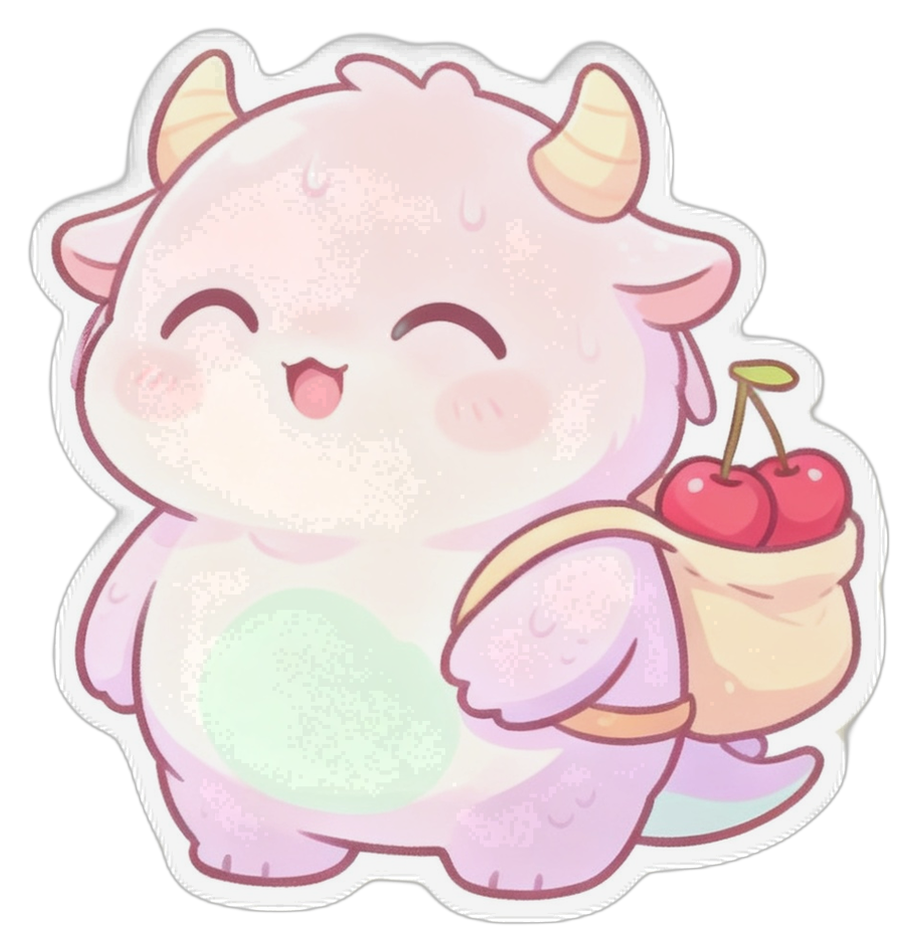
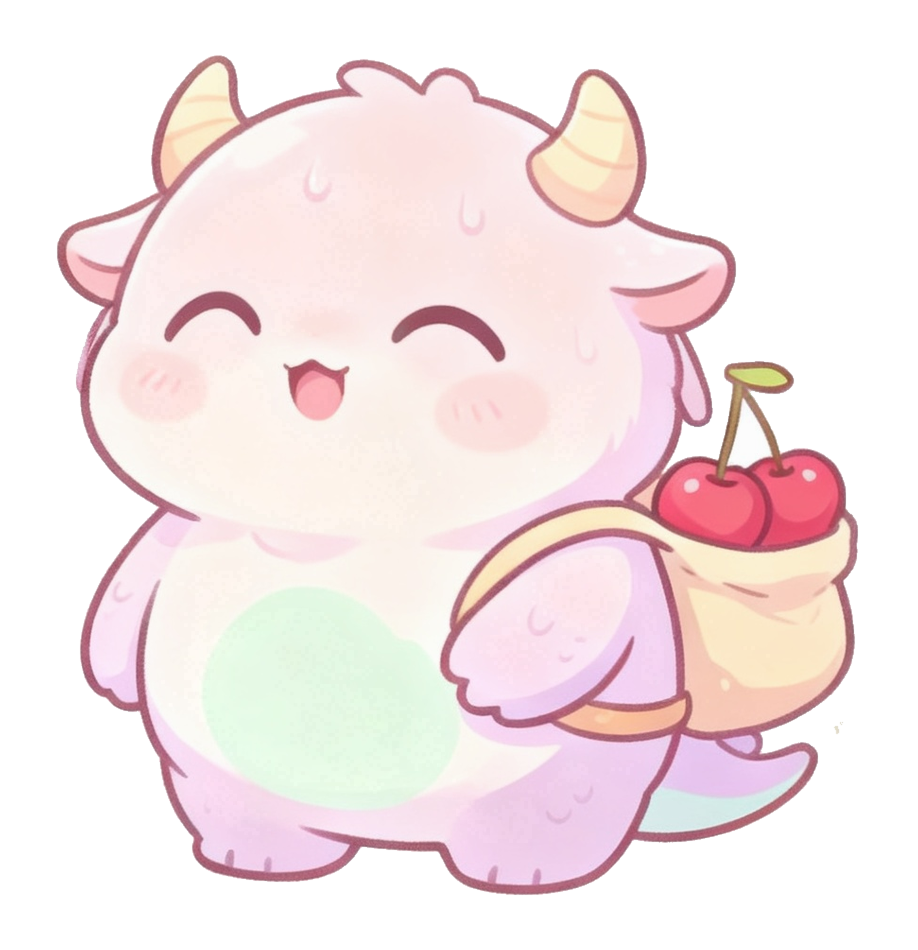
feat: update pet berry assets, sound session handling, and design previews

diff --git a/app/lib/util/study_audio_session_controller.dart b/app/lib/util/study_audio_session_controller.dart
@@ -8,6 +8,7 @@ import 'package:nnbdc/util/sound.dart';
 import 'package:nnbdc/util/asr.dart';
 import 'package:nnbdc/api/vo.dart';
 import 'package:nnbdc/util/app_clock.dart';
+import 'package:nnbdc/util/client_error_reporter.dart';
 import 'package:nnbdc/util/error_handler.dart';
 import 'package:nnbdc/util/platform_util.dart';
 import 'package:nnbdc/util/utils.dart';
@@ -655,84 +656,147 @@ class StudyAudioSessionController {
   // State Machine Transitions & Re-configuration
   // ============================================================
 
+  /// 状态机转换超过这个时长仍未完成，就认为它卡住了并上报现场。
+  ///
+  /// 取值依据：record 冷启动把每一层自己的超时全部踩满（清理 1.5s + 会话配置
+  /// 1s×(1+3 次 !pri 重试) + 激活 1s + 开麦 5s + 提示音 2s + 错峰 0.3s）约 13s，
+  /// 而正常路径在 1s 内完成。15s 之内不会误报，真卡住时用户也已经干等了十几秒。
+  static const Duration _stallReportAfterDefault = Duration(seconds: 15);
+
+  /// 测试专用：缩短"多久算卡住"，避免用例真的等 15 秒。
+  @visibleForTesting
+  static Duration? stallReportAfterOverride;
+
+  static Duration get _stallReportAfter =>
+      stallReportAfterOverride ?? _stallReportAfterDefault;
+
   /// 全局唯一的音频工作状态机转换网关（原子化、串行化、硬件防撞车）
   ///
   /// 返回本次转换是否成功。失败时这里已做物理熔断降级（回到 idle 并释放麦克风），
   /// 调用方必须据此决定要不要继续往下走 —— 典型就是开麦失败后不能再启动识别。
   Future<bool> transitTo(AudioMode targetMode) {
     return _stateTransitionLock.protect(() async {
-      // 建立新音频会话前，先等上一次登记的清理任务落地（见 _pendingCleanup）。
-      await _pendingCleanup;
+      final AudioMode fromMode = _activeMode;
       var finalTargetMode = targetMode;
       if (targetMode == AudioMode.record && !PlatformUtils.isAsrSupported()) {
         finalTargetMode = AudioMode.playback;
       }
- 
-      if (_activeMode == finalTargetMode) {
-        if (finalTargetMode == AudioMode.playback) {
-          final bool isCategoryChanged = _currentSessionCategory != 'playback';
-          if (isCategoryChanged) {
-            await _waitForAllPlayers();
-            await _usePlaybackCategory(force: true);
-            await Future.delayed(const Duration(milliseconds: 150));
-          }
-        }
-        return true;
-      }
- 
-      final sw = Stopwatch()..start();
-      debugPrint('🔊 [AudioEngine] 状态机开始转换: $_activeMode ➔ $finalTargetMode');
+
+      // 卡住看门狗：只观测、不中断、不改变任何行为。
+      //
+      // 为什么非要有它：这条路径上任何一个原生调用挂住（历史真凶是 AVAudioSession.setActive），
+      // 表现都是"这个 Future 永不返回"—— 不抛异常、catch 永远收不到、用户只能杀进程重进。
+      // 没有这个哨兵，这类故障在云端完全不可见。
+      var stage = '等待上一次清理任务落地';
+      final stallWatchdog = Timer(_stallReportAfter, () {
+        unawaited(reportClientFailure(
+          errorType: kClientAudioErrorType,
+          scene: '状态机转换卡住|$fromMode→$finalTargetMode',
+          details: '卡住超过 ${_stallReportAfter.inSeconds}s 仍未返回\n'
+              '当前阶段=$stage\n'
+              '会话Category=$_currentSessionCategory\n'
+              'ASR状态=${_asr.state}\n'
+              '监视中的播放器=${_watchedPlayers.length}',
+        ));
+      });
 
       try {
-        switch (finalTargetMode) {
-          case AudioMode.playback:
-            await _asr.stopMicrophone();
-            await _cleanupEarlyExitPlayers();
-            
+        // 建立新音频会话前，先等上一次登记的清理任务落地（见 _pendingCleanup）。
+        await _pendingCleanup;
+
+        if (fromMode == finalTargetMode) {
+          if (finalTargetMode == AudioMode.playback) {
             final bool isCategoryChanged = _currentSessionCategory != 'playback';
-            await _usePlaybackCategory(force: false);
-            final delayMs = isCategoryChanged ? 150 : 80;
-            await Future.delayed(Duration(milliseconds: delayMs));
-            break;
- 
-          case AudioMode.record:
-            await _cleanupEarlyExitPlayers();
-            
-            final bool isColdStart = _currentSessionCategory != 'playAndRecord';
-            await _usePlayAndRecordCategory();
-            await _asr.startMicrophone();
-            
-            final delayMs = isColdStart ? 180 : 60;
-            debugPrint('⏱ [AudioEngine] 麦克风物理通道已激活 (${isColdStart ? "冷启动" : "热复用"})，错峰延迟 ${delayMs}ms 稳定时钟...');
-            await Future.delayed(Duration(milliseconds: delayMs));
-            await _playAsrReadyHintSound();
-            // 提示音全长 100ms：让提示音播完再完成状态切换与开启 ASR 识别，
-            // 确保提示音与 ASR 识别在时间轴上完全错开，避免麦克风录入提示音造成回声感或误识别。
-            await Future.delayed(const Duration(milliseconds: 100));
-            break;
- 
-          case AudioMode.idle:
-            await _asr.stopMicrophone();
-            await _cleanupEarlyExitPlayers();
-            // 这里只关麦克风，不碰 AVAudioSession 的 Category（本控制器从不 setActive(false)），
-            // 所以 _currentSessionCategory 必须保留真实值：写成 'none' 会让下一次录放切换
-            // 无谓地重配一遍 Category（真机实测多耗 ~260ms 并制造一次路由抖动）。
-            break;
+            if (isCategoryChanged) {
+              stage = '重配播放会话(保温复用)';
+              await _waitForAllPlayers();
+              await _usePlaybackCategory(force: true);
+              await Future.delayed(const Duration(milliseconds: 150));
+            }
+          }
+          return true;
         }
-        
-        _activeMode = finalTargetMode;
-        debugPrint('🔊 [AudioEngine] 状态机转换成功: ➔ $_activeMode，总耗时: ${sw.elapsedMilliseconds}ms');
-        return true;
-      } catch (e, st) {
-        Global.logger.e('🔊 [AudioEngine] 状态机转换异常，物理熔断降级: $e', error: e, stackTrace: st);
+
+        final sw = Stopwatch()..start();
+        debugPrint('🔊 [AudioEngine] 状态机开始转换: $fromMode ➔ $finalTargetMode');
+
         try {
-          await _asr.stopMicrophone();
-        } catch (_) {}
-        try {
-          await _cleanupEarlyExitPlayers();
-        } catch (_) {}
-        _activeMode = AudioMode.idle;
-        return false;
+          switch (finalTargetMode) {
+            case AudioMode.playback:
+              stage = '停麦';
+              await _asr.stopMicrophone();
+              stage = '清理残留播放器';
+              await _cleanupEarlyExitPlayers();
+
+              final bool isCategoryChanged = _currentSessionCategory != 'playback';
+              stage = '切到播放会话并激活';
+              await _usePlaybackCategory(force: false);
+              final delayMs = isCategoryChanged ? 150 : 80;
+              stage = '错峰延迟';
+              await Future.delayed(Duration(milliseconds: delayMs));
+              break;
+
+            case AudioMode.record:
+              stage = '清理残留播放器';
+              await _cleanupEarlyExitPlayers();
+
+              final bool isColdStart = _currentSessionCategory != 'playAndRecord';
+              stage = '切到录放会话并激活';
+              await _usePlayAndRecordCategory();
+              stage = '开麦';
+              await _asr.startMicrophone();
+
+              final delayMs = isColdStart ? 180 : 60;
+              debugPrint('⏱ [AudioEngine] 麦克风物理通道已激活 (${isColdStart ? "冷启动" : "热复用"})，错峰延迟 ${delayMs}ms 稳定时钟...');
+              stage = '错峰延迟';
+              await Future.delayed(Duration(milliseconds: delayMs));
+              stage = '播就绪提示音';
+              await _playAsrReadyHintSound();
+              // 提示音全长 100ms：让提示音播完再完成状态切换与开启 ASR 识别，
+              // 确保提示音与 ASR 识别在时间轴上完全错开，避免麦克风录入提示音造成回声感或误识别。
+              stage = '提示音后错峰';
+              await Future.delayed(const Duration(milliseconds: 100));
+              break;
+
+            case AudioMode.idle:
+              stage = '停麦';
+              await _asr.stopMicrophone();
+              stage = '清理残留播放器';
+              await _cleanupEarlyExitPlayers();
+              // 这里只关麦克风，不碰 AVAudioSession 的 Category（本控制器从不 setActive(false)），
+              // 所以 _currentSessionCategory 必须保留真实值：写成 'none' 会让下一次录放切换
+              // 无谓地重配一遍 Category（真机实测多耗 ~260ms 并制造一次路由抖动）。
+              break;
+          }
+
+          _activeMode = finalTargetMode;
+          debugPrint('🔊 [AudioEngine] 状态机转换成功: ➔ $_activeMode，总耗时: ${sw.elapsedMilliseconds}ms');
+          return true;
+        } catch (e, st) {
+          Global.logger.e('🔊 [AudioEngine] 状态机转换异常，物理熔断降级: $e', error: e, stackTrace: st);
+          // 上报现场：这类失败正是"进说模式没有叮、说话毫无反应""点了拼写一直转圈"
+          // 这些用户可见故障的共同来源，过去只留在本机日志里（客户手机上根本看不到）。
+          // 阶段名让它能精确指出卡在哪一步，而不是只知道"状态机失败了"。
+          unawaited(reportClientFailure(
+            errorType: kClientAudioErrorType,
+            scene: '状态机转换失败|$fromMode→$finalTargetMode',
+            details: '失败阶段=$stage\n'
+                '耗时=${sw.elapsedMilliseconds}ms\n'
+                '会话Category=$_currentSessionCategory\n'
+                'ASR状态=${_asr.state}\n'
+                '异常=$e\n$st',
+          ));
+          try {
+            await _asr.stopMicrophone();
+          } catch (_) {}
+          try {
+            await _cleanupEarlyExitPlayers();
+          } catch (_) {}
+          _activeMode = AudioMode.idle;
+          return false;
+        }
+      } finally {
+        stallWatchdog.cancel();
       }
     });
   }
@@ -1375,6 +1439,13 @@ class StudyAudioSessionController {
       _playerBusyUntil[player] = AppClock.now().add(const Duration(milliseconds: 500));
     } catch (e) {
       debugPrint('🔊 [SessionController] 极速播放 ASR 提示音出错: $e');
+      // 提示音是用户判断"已经可以说话了"的唯一信号：它没响，用户就不知道该开口。
+      // 这里过去只 debugPrint，线上完全不可见。
+      unawaited(reportClientFailure(
+        errorType: kClientAudioErrorType,
+        scene: 'ASR 就绪提示音失败',
+        details: '$e',
+      ));
     }
   }
 

diff --git a/design/ideas.html b/design/ideas.html
@@ -2278,6 +2278,15 @@
                 • 哪天断了就吃光：背篓空着、里面只剩它自己拣的几片蔫巴巴的菜叶，脸上也灰扑扑的（像哭了好几天没洗脸）。<br/>
                 这样背篓不需要任何数字标签，用户扫一眼就知道自己今天走到哪一步了。<br/>
                 <strong>待确认</strong>：断更之后重新开始学习，背篓是从 1 颗从头攒，还是按断更天数扣减——目前原型按「回到 1 颗」处理。<br/><br/>
+                <strong>外观修正记录（2026-10-16）</strong>：<br/>
+                • <strong>去掉「外面套的那一层」（贴纸白边 + 残留米色背景 + 地面阴影）</strong>：这三样都属于「与图像边界连通、且浅而无彩」的像素，做法是<strong>从图像四条边界向内做膨胀传播、只吃这一类像素</strong>；脸颊、肚皮、额前两只白色小角、眼睛高光都被描边围住、传播进不去，因此完整保留。<br/>
+                  <strong>这一步绝不能用「删掉所有白色像素」代替</strong>——额前那两只小角和眼睛高光本身就是纯白，一刀切会把它们一起挖空（四态里就数这张最明显）。同理也不能只按「外接矩形裁剪」：矩形会把角色凹处的残留背景一并留下（实测白边内侧还叠着一层原图的浅米色背景，宽约 50px）。<br/>
+                  这一步已经固化进 <code>tmp/normalize_pet.py</code>，与「本体外接框裁剪 + 等高归一化」串成一条可重跑流水线。<br/>
+                • <strong>判据补正（同日）</strong>：第一版判据写成「焦点饱和度 &lt; 26 <strong>且</strong> 亮度 &gt; 205」，结果四张图各自在角上留下竖直碎片——那些碎片的抗锯齿过渡与阴影部分亮度低于 205、或饱和度升到 26~40，两个条件都不满足，整块漏在判据之外。<strong>改为只看饱和度（&lt; 24）</strong>：角色的粉紫/橙黄/绿都远高于它，而白边、残留背景、地面阴影连同它们偏暗的过渡边都低于它。<strong>教训：这类「挑出背景」的判据里不要塞亮度条件</strong>，亮度会把偏暗的残留挡在门外。<br/>
+                • <strong>已完成那张「外圈光环」</strong>：是抠图把当时的浅灰背景一起留下来了，贴着贴纸白边形成一圈灰。改为按<strong>角色本体外接框</strong>裁（角色轮廓本身是一圈深粉描边，外接框可靠），白边与灰晕一起去掉；四态统一这样处理。<br/>
+                • <strong>打瞌睡那张「耳朵下面流的东西」</strong>：不是多画了一条，而是<strong>右垂耳内侧被画成了死白</strong>（对照开心态同一位置是粉色阴影）。在 132px 真实显示尺寸下依然可见，所以必须修。<br/>
+                • <strong>图像修复五条路全失败</strong>（都留痕）：颜色填充糊出色块、从左耳克隆贴出白椭圆、按长条轮廓填充填出矩形块、用同位置干净耳朵覆盖留下粉色贴片、按距离裁外圈把脸挖了。<br/>
+                • <strong>最终靠重新生成解决</strong>：模型在这张图上把「只有一颗樱桃」和「耳朵干净」绑成了互斥——耳朵干净时樱桃必 2~3 颗，樱桃一颗时耳朵必白。试了 4 批共 15 张，最后从「先要干净耳朵、再减到一颗」这个方向拿到同时满足的。<br/><br/>
                 <strong>实测边界：「袋里正好三颗」这个模型画不出来</strong>（2026-10-16，连试五轮）：<br/>
                 ① 只说「多放一颗」→ 第三颗被画到袋子外面；<br/>
                 ② 说「袋子被撑鼓、袋口张更开」→ 模型把袋子整体放大，角色比例与构图一起崩掉；<br/>

diff --git a/app/test/sound_session_switch_test.dart b/app/test/sound_session_switch_test.dart
@@ -1,8 +1,12 @@
+import 'dart:async';
 import 'dart:io';
 
 import 'package:flutter/services.dart';
 import 'package:flutter_test/flutter_test.dart';
 import 'package:just_audio/just_audio.dart' as ja;
+import 'package:nnbdc/util/app_clock.dart';
+import 'package:nnbdc/util/client_error_reporter.dart';
+import 'package:nnbdc/util/sound.dart';
 import 'package:nnbdc/util/study_audio_session_controller.dart';
 import 'package:nnbdc/util/asr.dart';
 
@@ -396,6 +400,52 @@ void main() {
   // ============================================================
   // 会话激活卡死：原生 setActive 迟迟不返回时，绝不能让状态机永久瘫痪
   // ============================================================
+  group('状态机转换卡住看门狗', () {
+    const scene = '状态机转换卡住|AudioMode.idle→AudioMode.playback';
+    const errorType = 'CLIENT_AUDIO_ERROR';
+
+    setUp(() {
+      StudyAudioSessionController.instance.resetForTesting();
+      setupDefaultMocks();
+    });
+
+    tearDown(() {
+      StudyAudioSessionController.stallReportAfterOverride = null;
+      AppClock.reset();
+      StudyAudioSessionController.instance.resetForTesting();
+      setupDefaultMocks();
+    });
+
+    test('转换耗时超过阈值时，看门狗会把"卡住"上报上去', () async {
+      // 一次正常转换本身就要 ~150ms，把阈值压到 20ms 就等于宣告它"卡住"：
+      // 用它验证看门狗活着（真卡住时它不抛异常、catch 永远收不到，只能靠它）。
+      AppClock.setClock(FakeClock(DateTime(2026, 10, 20, 10, 0)));
+      StudyAudioSessionController.stallReportAfterOverride =
+          const Duration(milliseconds: 20);
+
+      unawaited(StudyAudioSessionController.instance.transitTo(AudioMode.playback));
+      await Future.delayed(const Duration(milliseconds: 300));
+
+      // 额度已被占用 → 看门狗确实上报过一次（它内部先领额度再上报）
+      expect(claimClientReportSlot(errorType, scene), isNull,
+          reason: '转换卡住必须被看见：这条路径挂住时不抛异常，catch 永远收不到');
+    });
+
+    test('转换正常完成后看门狗必须被撤销，不得误报', () async {
+      // 换一天，拿到干净额度（上一个用例已把前一天的额度用掉）
+      AppClock.setClock(FakeClock(DateTime(2026, 10, 21, 10, 0)));
+      StudyAudioSessionController.stallReportAfterOverride =
+          const Duration(seconds: 5);
+
+      final switched = await StudyAudioSessionController.instance.transitTo(AudioMode.playback);
+      expect(switched, isTrue);
+      await Future.delayed(const Duration(milliseconds: 100));
+
+      expect(claimClientReportSlot(errorType, scene), isNotNull,
+          reason: '转换已正常完成，看门狗必须撤销，不能在完成后误报"卡住"');
+    });
+  });
+
   group('会话激活超时熔断（静态验证）', () {
     test('控制器里不存在裸调 setActive 的地方', () async {
       // 单测跑在 macOS 上，audio_session 插件在这条分支上直接 return true、根本不走原生通道，
